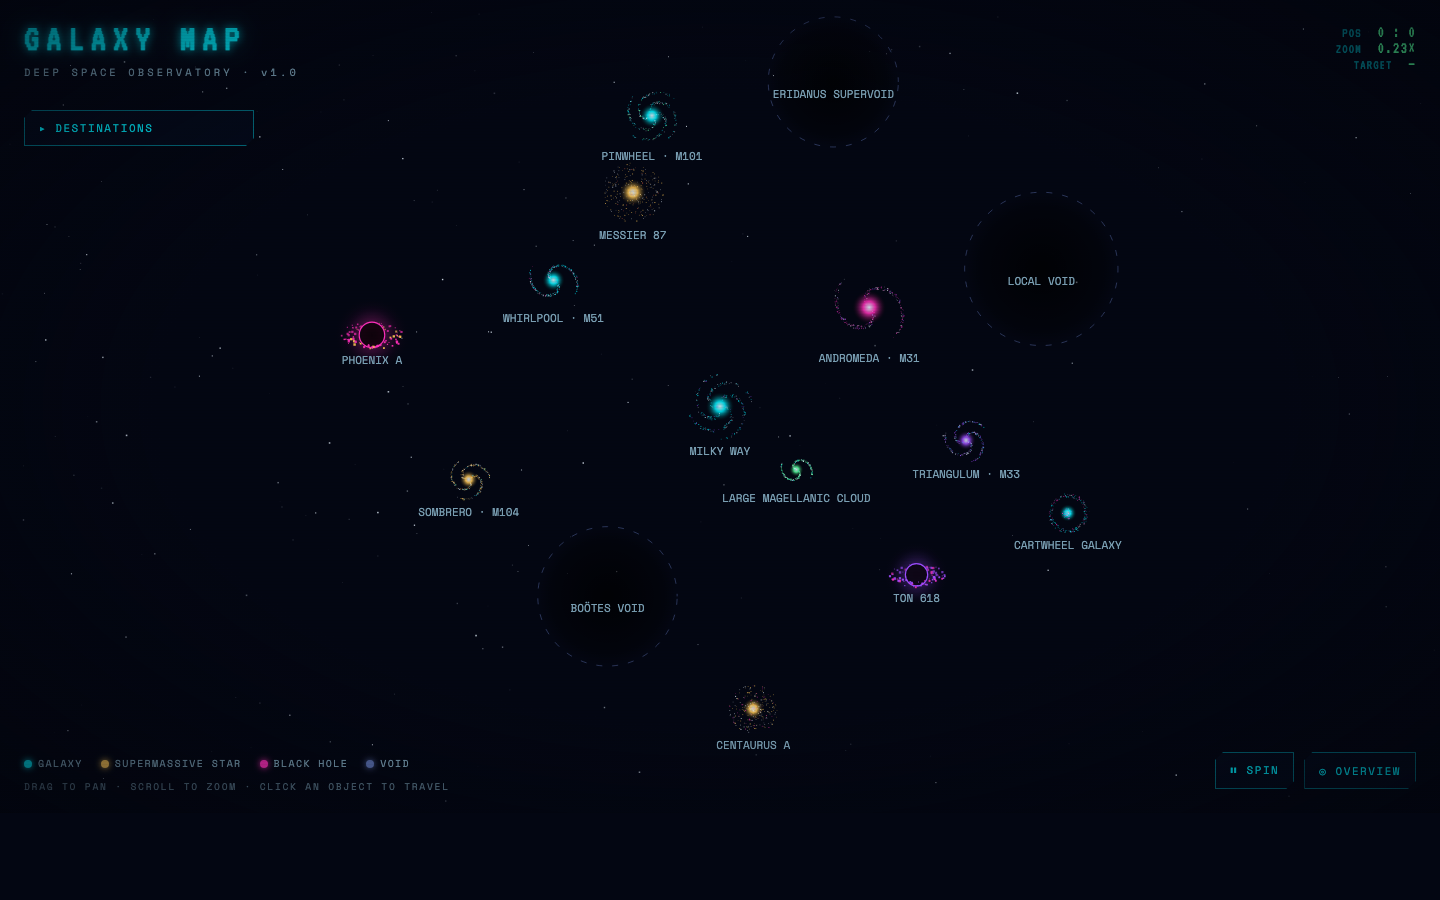
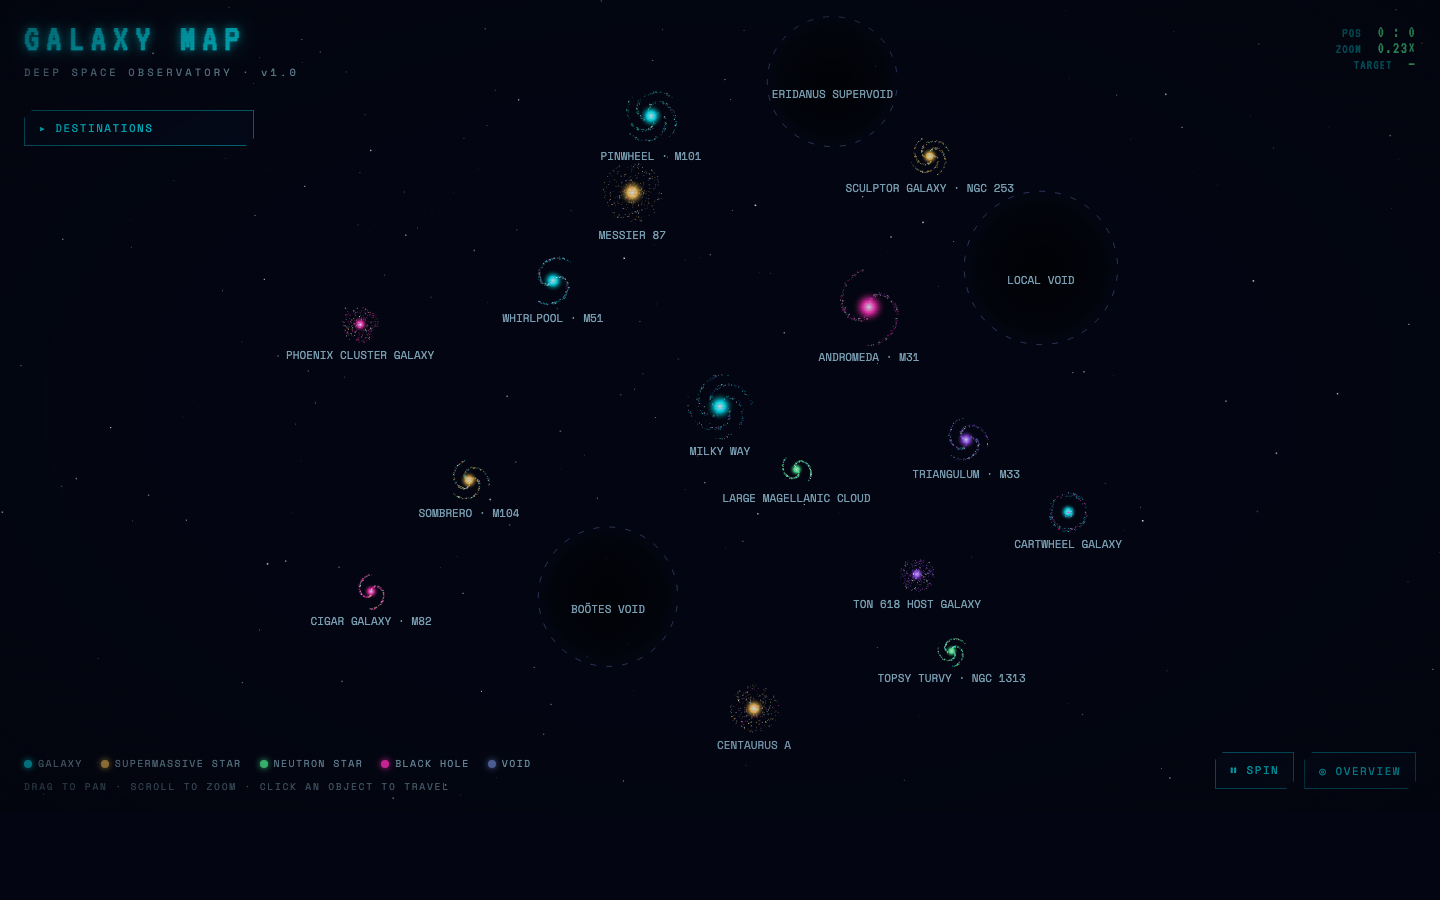
Add neutron stars and real host galaxies for TON 618 & Phoenix A
New object type `neutron` with its own pulsar renderer — a tiny
intensely bright core plus two sweeping lighthouse beams that rotate
with the star's own (very fast) spin.

- 5 new galaxies: Cigar Galaxy (M82), Topsy Turvy (NGC 1313),
  Sculptor Galaxy (NGC 253), Phoenix Cluster Galaxy, and TON 618 Host
  Galaxy — real astronomical hosts, not invented placeholders
- 3 new neutron stars living inside them: M82 X-2 (the first ULX
  pulsar discovered, 2014), NGC 1313 X-2 (an extreme spin-up pulsar),
  and NGC 253 Magnetar (candidate source of a 2004 giant flare)
- TON 618 and Phoenix A converted from lone deep-space black holes
  (x, y) to interior objects (parent + local) of their new hosts,
  matching the pattern already used for Sagittarius A*, M87*, etc.
- main.js: byType gains a `neutron` bucket, TYPE_LABEL gains an
  entry, and the destinations nav's "DEEP SPACE" group is now
  conditionally rendered (skipped when no lone black holes remain,
  which is the case now)
- style.css / index.html: neon-green badge and legend dot for the
  new type

Verified in-browser: 32/32 objects render with unique ids and no
orphan parent references, zero console errors, deep-linked to each
new object and the destinations nav to confirm nesting and
breadcrumbs ("SCULPTOR GALAXY · NGC 253 › NGC 253 MAGNETAR", etc).

diff --git a/js/data.js b/js/data.js
@@ -118,6 +118,56 @@ const galaxiesData = {
       size: '~150,000 ly across',
       desc: 'A cosmic bullseye formed when a smaller galaxy punched straight through its disk 200 million years ago. The impact sent a ring-shaped shockwave of star formation expanding outward like a ripple in a pond.'
     },
+    {
+      id: 'm82', name: 'CIGAR GALAXY · M82', type: 'galaxy',
+      class: 'Starburst irregular · I0',
+      x: -1500, y: 800, radius: 75, arms: 2,
+      palette: ['--cyber-pink', '--star-white', '--golden-yellow'],
+      spinSpeed: 0.00016,
+      distance: '~12 million ly',
+      size: '~37,000 ly across',
+      desc: 'A furious starburst galaxy, forming stars ten times faster than the Milky Way after a close pass with its neighbor M81. Its disk glows pink with ionized hydrogen blown out by supernovae. Zoom in for the neutron star hiding in the wreckage.'
+    },
+    {
+      id: 'ngc1313', name: 'TOPSY TURVY · NGC 1313', type: 'galaxy',
+      class: 'Barred spiral · SB(s)d',
+      x: 1000, y: 1050, radius: 65, arms: 3,
+      palette: ['--terminal-green', '--star-white', '--neon-cyan'],
+      spinSpeed: 0.00015,
+      distance: '~15 million ly',
+      size: '~50,000 ly across',
+      desc: 'A lopsided barred spiral with no clear center of rotation, likely still recovering from a past collision. Prolific at forming stars for its modest size — and home to one of the most extreme neutron stars ever clocked.'
+    },
+    {
+      id: 'ngc253', name: 'SCULPTOR GALAXY · NGC 253', type: 'galaxy',
+      class: 'Starburst spiral · SAB(s)c',
+      x: 900, y: -1080, radius: 85, arms: 4,
+      palette: ['--golden-yellow', '--star-white', '--terminal-green'],
+      spinSpeed: 0.00010,
+      distance: '~11.4 million ly',
+      size: '~70,000 ly across',
+      desc: 'One of the dustiest galaxies known, its core hidden behind thick lanes of star-forming gas. A giant flare recorded in 2004 is suspected to have come from a magnetar buried deep inside it — one of the few ever traced to another galaxy.'
+    },
+    {
+      id: 'phoenix-cluster-galaxy', name: 'PHOENIX CLUSTER GALAXY', type: 'galaxy',
+      class: 'Brightest cluster galaxy · cD', elliptical: true,
+      x: -1550, y: -350, radius: 80,
+      palette: ['--cyber-pink', '--star-white', '--golden-yellow'],
+      spinSpeed: 0.00004,
+      distance: '~5.8 billion ly',
+      size: '~200,000 ly across',
+      desc: 'The monstrous central galaxy of the Phoenix Cluster, bathed in more X-ray light than almost any other cluster known. Cooling gas rains onto it from the surrounding cluster medium, fueling one of the highest star-formation rates ever measured in a giant galaxy.'
+    },
+    {
+      id: 'ton-618-host', name: 'TON 618 HOST GALAXY', type: 'galaxy',
+      class: 'Unresolved · quasar host', elliptical: true,
+      x: 850, y: 720, radius: 75,
+      palette: ['--neon-purple', '--star-white', '--cyber-pink'],
+      spinSpeed: 0.00006,
+      distance: '~10.8 billion ly',
+      size: 'unresolved — quasar outshines it',
+      desc: 'The galaxy presumed to surround TON 618 is so thoroughly outshone by its quasar that its actual shape has never been directly resolved — this is an artist’s reconstruction of what a host massive enough to feed such a black hole would look like.'
+    },
 
     /* ══ SUPERMASSIVE STARS (inside their host galaxies) ══ */
     {
@@ -171,6 +221,38 @@ const galaxiesData = {
       desc: 'The most massive and one of the most luminous stars known — nearly 5 million times brighter than the Sun. It burns so fiercely that it sheds an Earth’s mass of material every month in a ferocious stellar wind.'
     },
 
+    /* ══ NEUTRON STARS (city-sized cores left behind by supernovae) ══ */
+    {
+      id: 'm82-x2', name: 'M82 X-2', type: 'neutron',
+      class: 'Ultraluminous X-ray pulsar',
+      parent: 'm82', local: { r: 42, a: 2.1 }, radius: 8,
+      palette: ['--terminal-green', '--star-white'],
+      spinSpeed: 0.0012,
+      distance: '~12 million ly',
+      size: '~1.4 solar masses, ~20 km wide',
+      desc: 'A neutron star no bigger than a city, somehow shining 10 million times brighter than the Sun — physics that shouldn’t work unless its magnetic field is scavenging far more infalling gas than anyone expected. Discovered in 2014, it was the first pulsar found powering an ultraluminous X-ray source.'
+    },
+    {
+      id: 'ngc1313-x2', name: 'NGC 1313 X-2', type: 'neutron',
+      class: 'Accreting X-ray pulsar',
+      parent: 'ngc1313', local: { r: 38, a: 5.0 }, radius: 7,
+      palette: ['--terminal-green', '--neon-cyan'],
+      spinSpeed: 0.0014,
+      distance: '~15 million ly',
+      size: '~1.4 solar masses, ~20 km wide',
+      desc: 'One of the most extreme spin-up cases on record — this dead star is dragging in so much matter from a companion that its rotation is measurably accelerating year over year, a rare direct look at a neutron star being spun faster by accretion.'
+    },
+    {
+      id: 'ngc253-magnetar', name: 'NGC 253 MAGNETAR', type: 'neutron',
+      class: 'Magnetar candidate · soft gamma repeater',
+      parent: 'ngc253', local: { r: 55, a: 3.4 }, radius: 8,
+      palette: ['--golden-yellow', '--star-white'],
+      spinSpeed: 0.0009,
+      distance: '~11.4 million ly',
+      size: '~1.4 solar masses, ~20 km wide',
+      desc: 'The suspected source of a giant flare recorded on Earth in 2004 — a starquake on a neutron star wrapped in a magnetic field trillions of times stronger than any magnet ever built, briefly outshining its entire host galaxy in gamma rays.'
+    },
+
     /* ══ BLACK HOLES ══ */
     {
       id: 'sagittarius-a', name: 'SAGITTARIUS A*', type: 'blackhole',
@@ -215,7 +297,7 @@ const galaxiesData = {
     {
       id: 'ton-618', name: 'TON 618', type: 'blackhole',
       class: 'Ultramassive black hole · quasar',
-      x: 850, y: 720, radius: 48,
+      parent: 'ton-618-host', local: { r: 0, a: 0 }, radius: 48,
       palette: ['--neon-purple', '--cyber-pink'],
       spinSpeed: 0.0005,
       distance: '~10.8 billion ly',
@@ -225,7 +307,7 @@ const galaxiesData = {
     {
       id: 'phoenix-a', name: 'PHOENIX A', type: 'blackhole',
       class: 'Ultramassive black hole',
-      x: -1500, y: -300, radius: 55,
+      parent: 'phoenix-cluster-galaxy', local: { r: 0, a: 0 }, radius: 55,
       palette: ['--cyber-pink', '--golden-yellow'],
       spinSpeed: 0.0004,
       distance: '~5.8 billion ly',

diff --git a/js/main.js b/js/main.js
@@ -122,7 +122,7 @@ const pickOrder = [...objects].sort((a, b) => a.data.radius - b.data.radius);
 
 /* Objects grouped by type once, so the render loop can draw each layer
    with a plain `for` — no per-frame filtering, lower branch count. */
-const byType = { void: [], galaxy: [], star: [], blackhole: [] };
+const byType = { void: [], galaxy: [], star: [], neutron: [], blackhole: [] };
 for (const o of objects) byType[o.data.type].push(o);
 
 /* Interior objects orbit with their host galaxy's spin */
@@ -264,6 +264,56 @@ function drawStarObj(o, t) {
     ctx.stroke();
   }
   ctx.restore();
+  ctx.globalAlpha = 1;
+}
+
+function drawNeutronStar(o, t) {
+  const { data, colors } = o;
+  const va = childAlpha(o);
+  if (va < 0.02) return;
+  const wp = worldPos(o);
+  const sc = worldToScreen(wp.x, wp.y);
+  const z = camera.zoom;
+  const pulse = Math.max(0.4, 1 + 0.35 * Math.sin(t * 0.02 + o.angle * 3)); // sharp pulsar blink
+  const R = Math.max(data.radius * 0.9 * z * pulse, 3);
+
+  // lighthouse beams sweeping with the star's own (very fast) spin
+  ctx.save();
+  ctx.translate(sc.x, sc.y);
+  ctx.rotate(o.angle + mapRotation);
+  const beamLen = Math.max(data.radius * 6 * z, 30);
+  for (let i = 0; i < 2; i++) {
+    const beamGrad = ctx.createLinearGradient(0, 0, beamLen, 0);
+    beamGrad.addColorStop(0, colors[0]);
+    beamGrad.addColorStop(1, 'rgba(0,0,0,0)');
+    ctx.globalAlpha = 0.35 * va;
+    ctx.fillStyle = beamGrad;
+    ctx.beginPath();
+    ctx.moveTo(0, 0);
+    ctx.lineTo(beamLen, -4);
+    ctx.lineTo(beamLen, 4);
+    ctx.closePath();
+    ctx.fill();
+    ctx.rotate(Math.PI);
+  }
+  ctx.restore();
+
+  // tiny, intensely bright core — a city-sized point of light
+  const glowR = Math.max(R * 3, 10);
+  const g = ctx.createRadialGradient(sc.x, sc.y, 0, sc.x, sc.y, glowR);
+  g.addColorStop(0, COLOR.starWhite);
+  g.addColorStop(0.3, colors[0]);
+  g.addColorStop(1, 'rgba(0,0,0,0)');
+  ctx.globalAlpha = va;
+  ctx.fillStyle = g;
+  ctx.beginPath();
+  ctx.arc(sc.x, sc.y, glowR, 0, Math.PI * 2);
+  ctx.fill();
+
+  ctx.fillStyle = COLOR.starWhite;
+  ctx.beginPath();
+  ctx.arc(sc.x, sc.y, Math.max(R * 0.5, 2), 0, Math.PI * 2);
+  ctx.fill();
   ctx.globalAlpha = 1;
 }
 
@@ -503,6 +553,7 @@ const hudTarget = document.getElementById('hud-target');
 const TYPE_LABEL = {
   galaxy: 'GALAXY',
   star: 'SUPERMASSIVE STAR',
+  neutron: 'NEUTRON STAR',
   blackhole: 'BLACK HOLE',
   void: 'COSMIC VOID',
 };
@@ -585,9 +636,10 @@ document.getElementById('dest-toggle').addEventListener('click', () => {
     addItem(g, false);
     for (const c of objects.filter((o) => o.parent === g)) addItem(c, true);
   }
-  addGroup('DEEP SPACE');
-  for (const o of objects) {
-    if (!o.parent && o.data.type === 'blackhole') addItem(o, false);
+  const loneBlackHoles = objects.filter((o) => !o.parent && o.data.type === 'blackhole');
+  if (loneBlackHoles.length) {
+    addGroup('DEEP SPACE');
+    for (const o of loneBlackHoles) addItem(o, false);
   }
   addGroup('COSMIC VOIDS');
   for (const o of objects) {
@@ -654,6 +706,7 @@ function renderScene(t) {
   for (const o of byType.void) drawVoid(o, t);
   for (const o of byType.galaxy) drawGalaxy(o, t);
   for (const o of byType.star) drawStarObj(o, t);
+  for (const o of byType.neutron) drawNeutronStar(o, t);
   for (const o of byType.blackhole) drawBlackHole(o, t);
 
   drawAllLabels();

diff --git a/css/style.css b/css/style.css
@@ -139,6 +139,7 @@ html, body {
 .dot { width: 8px; height: 8px; border-radius: 50%; display: inline-block; }
 .dot-galaxy    { background: var(--neon-cyan);    box-shadow: 0 0 6px var(--neon-cyan); }
 .dot-star      { background: var(--golden-yellow); box-shadow: 0 0 6px var(--golden-yellow); }
+.dot-neutron   { background: var(--terminal-green); box-shadow: 0 0 6px var(--terminal-green); }
 .dot-blackhole { background: var(--cyber-pink);   box-shadow: 0 0 6px var(--cyber-pink); }
 .dot-void      { background: var(--void-blue);    box-shadow: 0 0 6px var(--void-blue); }
 .hud-hint {
@@ -280,6 +281,7 @@ html, body {
 }
 .type-badge.galaxy    { color: var(--neon-cyan); }
 .type-badge.star      { color: var(--golden-yellow); }
+.type-badge.neutron   { color: var(--terminal-green); }
 .type-badge.blackhole { color: var(--cyber-pink); }
 .type-badge.void      { color: var(--void-blue); }
 .panel-close { padding: 5px 10px; }

diff --git a/index.html b/index.html
@@ -48,6 +48,7 @@
     <ul class="legend">
       <li><span class="dot dot-galaxy"></span>GALAXY</li>
       <li><span class="dot dot-star"></span>SUPERMASSIVE STAR</li>
+      <li><span class="dot dot-neutron"></span>NEUTRON STAR</li>
       <li><span class="dot dot-blackhole"></span>BLACK HOLE</li>
       <li><span class="dot dot-void"></span>VOID</li>
     </ul>

diff --git a/README.md b/README.md
@@ -16,16 +16,17 @@ Voidarium is a zero-dependency galaxy map rendered entirely on a single `<canvas
 
 ## ✦ What's inside
 
-**24 real astronomical objects across four classes:**
+**32 real astronomical objects across five classes:**
 
 | Class | Objects |
 |---|---|
-| 🌀 **Galaxies** (10) | Milky Way, Andromeda, Triangulum, Whirlpool, Sombrero, Pinwheel, Messier 87, Large Magellanic Cloud, Centaurus A, Cartwheel |
+| 🌀 **Galaxies** (15) | Milky Way, Andromeda, Triangulum, Whirlpool, Sombrero, Pinwheel, Messier 87, Large Magellanic Cloud, Centaurus A, Cartwheel, Cigar Galaxy (M82), Topsy Turvy (NGC 1313), Sculptor Galaxy (NGC 253), Phoenix Cluster Galaxy, TON 618 Host Galaxy |
 | ⭐ **Supermassive stars** (5) | UY Scuti, Stephenson 2-18, Betelgeuse, Eta Carinae, R136a1 |
+| 🟢 **Neutron stars** (3) | M82 X-2, NGC 1313 X-2, NGC 253 Magnetar |
 | ⚫ **Black holes** (6) | Sagittarius A*, M87*, M31*, M104*, TON 618, Phoenix A |
 | 🕳 **Cosmic voids** (3) | Boötes Void, Local Void, Eridanus Supervoid |
 
-**Galaxies have interiors.** Stars and black holes live *inside* their real host galaxies — Sagittarius A* anchors the Milky Way, R136a1 burns in the Large Magellanic Cloud, M87* hides in Messier 87. Zoom into a galaxy and its residents fade into view, orbiting along with the galaxy's spin. Voids stay out in deep space, because that's what voids are: the enormous empty gaps *between* galaxies.
+**Galaxies have interiors.** Stars, neutron stars, and black holes live *inside* their real host galaxies — Sagittarius A* anchors the Milky Way, R136a1 burns in the Large Magellanic Cloud, M87* hides in Messier 87, and the ultraluminous pulsar M82 X-2 spins inside the starburst Cigar Galaxy. TON 618 and Phoenix A — previously floating alone in deep space — now sit inside their real host galaxies too. Zoom into a galaxy and its residents fade into view, orbiting along with the galaxy's spin. Voids stay out in deep space, because that's what voids are: the enormous empty gaps *between* galaxies.
 
 ## ✦ Features
 
@@ -36,7 +37,7 @@ Voidarium is a zero-dependency galaxy map rendered entirely on a single `<canvas
 - **Holographic info cards** — scanline-swept panels with a VT323 typewriter effect, real distances, sizes, and descriptions
 - **Free navigation** — drag to pan, scroll to zoom toward the cursor, destinations drawer with the full nested catalog
 - **Deep links** — `?goto=ton-618` flies to an object on load; add `&snap=1` to jump there instantly
-- **Physically flavored rendering** — Keplerian accretion disks whose inner particles orbit faster and pass behind/in front of the event horizon, pulsing supergiants with diffraction spikes, ring and elliptical galaxy particle distributions, parallax starfield
+- **Physically flavored rendering** — Keplerian accretion disks whose inner particles orbit faster and pass behind/in front of the event horizon, pulsing supergiants with diffraction spikes, sweeping lighthouse beams on neutron stars, ring and elliptical galaxy particle distributions, parallax starfield
 
 ## ✦ Running it
 